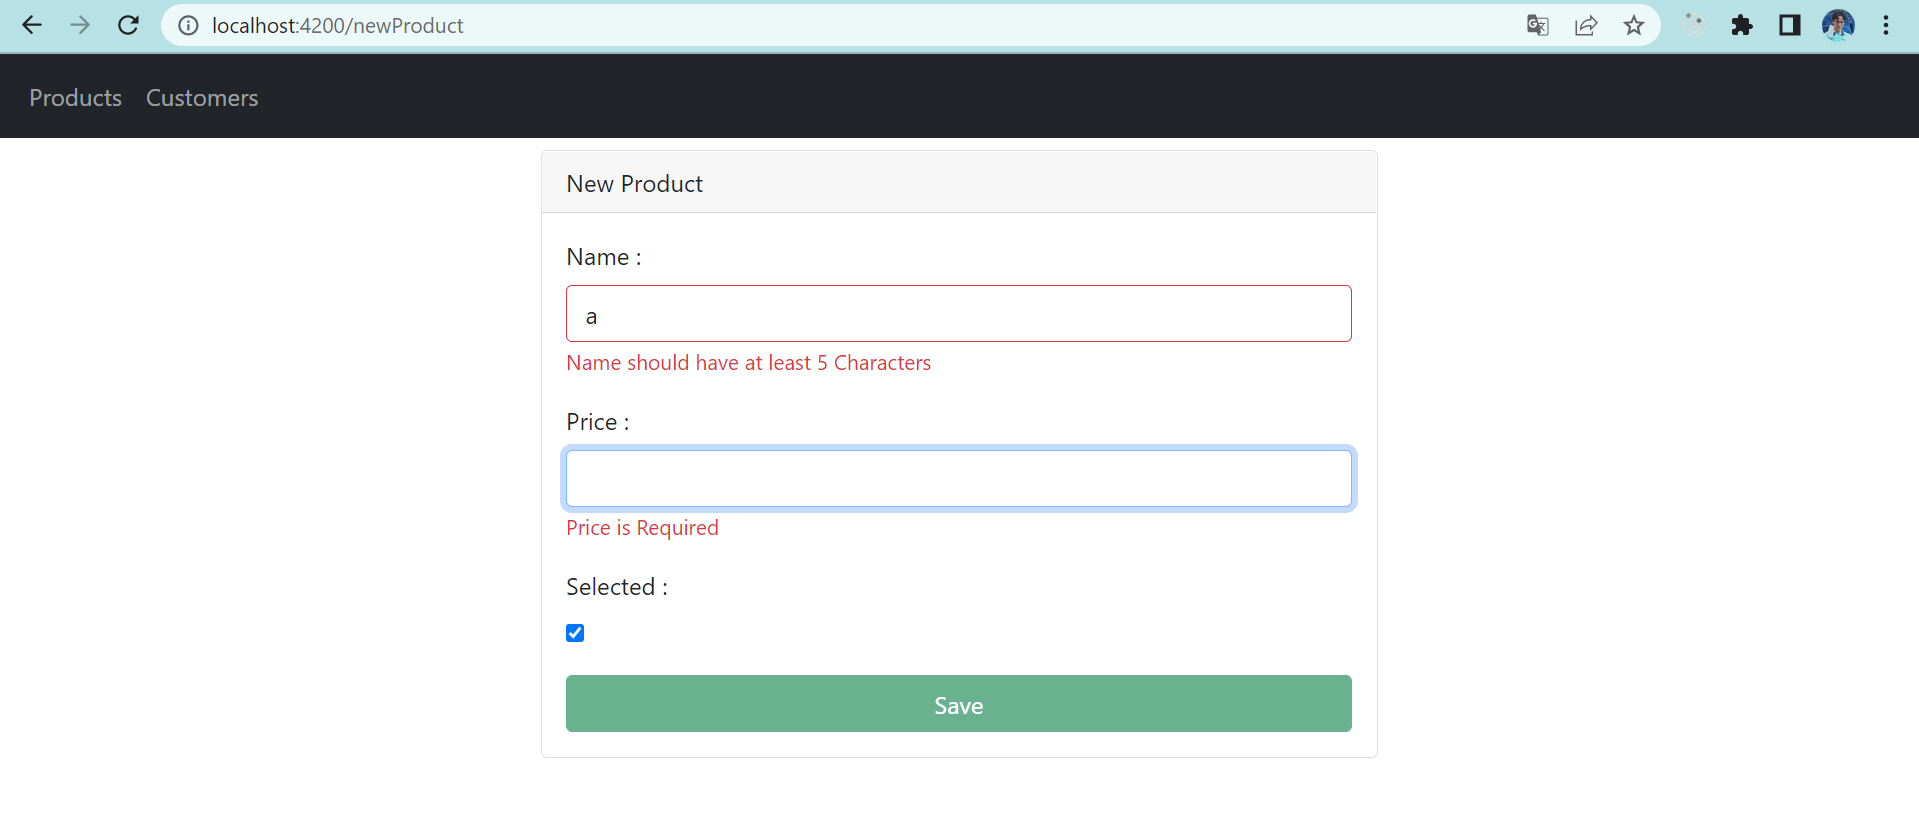
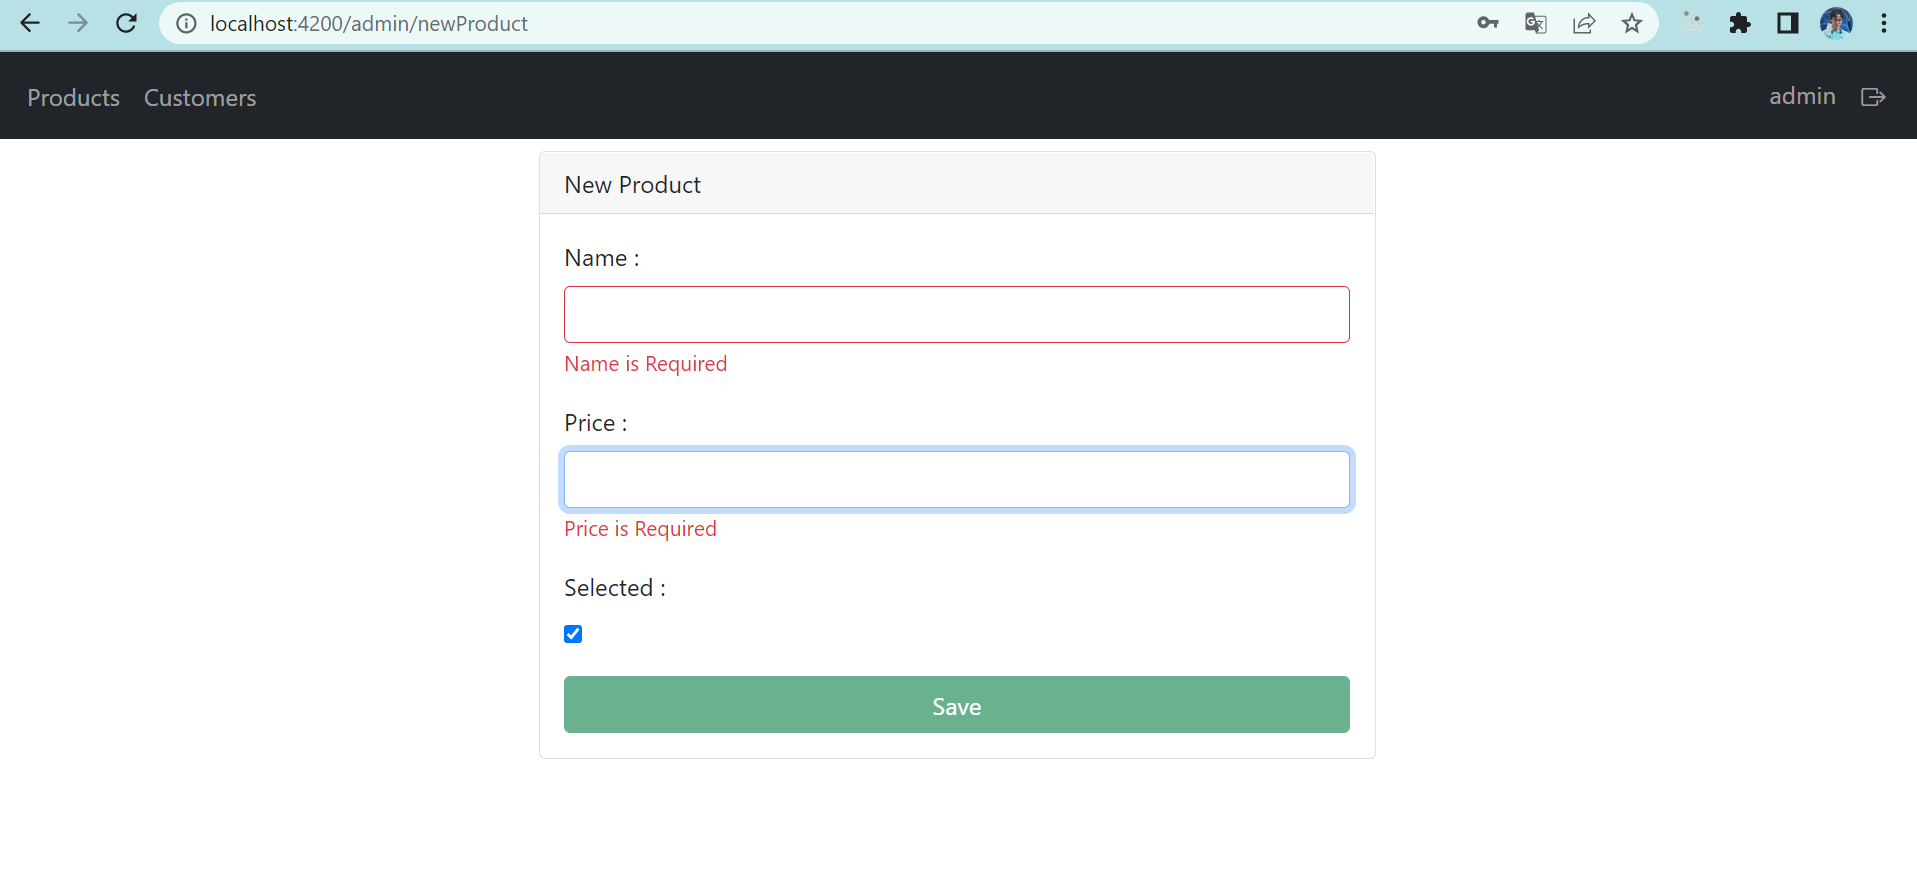
authentication

diff --git a/src/app/products/products.component.html b/src/app/products/products.component.html
@@ -8,7 +8,7 @@
       <i class="bi bi-save"></i>
       Promoted Products
     </button>
-    <button (click)="newProduct()" class="btn btn-outline-info ms-2">
+    <button *ngIf="this.authService.hasRole('ADMIN')" (click)="newProduct()" class="btn btn-outline-info ms-2">
       <i class="bi bi-save"></i>
       New Product
     </button>
@@ -25,7 +25,7 @@
       </div>
     </form>
     <table class="table">
-      <thead>
+      <thead *ngIf="this.authService.hasRole('ADMIN')">
         <tr>
           <td><i  (click)="setSelection(!selectMode)" class="btn" [ngClass]="selectMode==true?'bi bi-check-square':'bi-square'" ></i></td>
           <td>
@@ -48,24 +48,24 @@
       </thead>
       <tbody>
       <tr *ngFor="let p of products">
-        <td>
+        <td *ngIf="this.authService.hasRole('ADMIN')">
           <i (click)="select(p)" [ngClass]="p.selected==true?'bi bi-check-square':'bi-square'" class="btn"></i>
         </td>
         <td>{{p.id}}</td>
         <td>{{p.name}}</td>
         <td>{{p.price}}</td>
         <td><span *ngIf="p.promotion==true"  class="bi bi-check-circle text-success"></span></td>
-        <td>
+        <td *ngIf="this.authService.hasRole('ADMIN')">
           <button [ngClass]="p.promotion==true?'btn-outline-danger':'btn-outline-success'" (click)="handlePromoteProduct(p)" class="btn">
             <span>{{p.promotion==true?'Unselect':'Select'}}</span>
           </button>
         </td>
-        <td>
+        <td *ngIf="this.authService.hasRole('ADMIN')">
           <button (click)="handleDeleteProduct(p)" class="btn btn-danger">
             <i class="bi bi-trash"></i>
           </button>
         </td>
-        <td>
+        <td *ngIf="this.authService.hasRole('ADMIN')">
           <button (click)="handleEditProduct(p)" class="btn btn-success">
             <i class="bi bi-pencil-fill"></i>
           </button>

diff --git a/src/app/services/authentication.service.ts b/src/app/services/authentication.service.ts
@@ -1,0 +1,41 @@
+import { Injectable } from '@angular/core';
+import {AppUser} from "../model/user.model";
+import {UUID} from "angular2-uuid";
+import {Observable, of, throwError} from "rxjs";
+
+@Injectable({
+  providedIn: 'root'
+})
+export class AuthenticationService {
+  private users : AppUser[]=[];
+  public authenticatedUser : AppUser | undefined;
+  constructor() {
+    this.users.push({userId : UUID.UUID(),username:"user1",password :"1234","roles":['USER']});
+    this.users.push({userId : UUID.UUID(),username:"user2",password :"1234","roles":['USER']})
+    this.users.push({userId : UUID.UUID(),username:"admin",password :"admin","roles":['USER',"ADMIN"]});
+  }
+  public login(username:string, password :string):Observable<AppUser> {
+    let appUser = this.users.find(u=>u.username==username);
+    if(!appUser)
+      return throwError(()=>new Error('User Not found'));
+    if(appUser.password!=password)
+      return throwError(()=>new Error('Bad Credentials'));
+    return of(appUser);
+  }
+  public authenticateUser(user : AppUser):Observable<boolean>{
+    this.authenticatedUser=user;
+    localStorage.setItem("authUser", JSON.stringify({username:user.username, roles:user.roles, token : "JWT_TOKEN"}));
+    return of(true);
+  }
+  public hasRole(role : string) :boolean {
+    return this.authenticatedUser!.roles.includes(role);
+  }
+  public logout(){
+    this.authenticatedUser=undefined;
+    localStorage.removeItem("authUser");
+    return of(true);
+  }
+  public isAuthenticated():boolean{
+    return this.authenticatedUser!=undefined;
+  }
+}

diff --git a/src/app/products/products.component.ts b/src/app/products/products.component.ts
@@ -3,6 +3,7 @@ import {Product} from "../model/products.model";
 import {ProductService} from "../services/product.service";
 import {FormBuilder, FormGroup} from "@angular/forms";
 import {Router} from "@angular/router";
+import {AuthenticationService} from "../services/authentication.service";
 @Component({
   selector: 'app-products',
   templateUrl: './products.component.html',
@@ -19,13 +20,13 @@ export class ProductsComponent implements OnInit {
   pageSize : number =5;
   totalPages! : number;
   currentAction! :string;
-  constructor(private productsService : ProductService, private fb:FormBuilder, private router: Router) {
+  constructor(private productsService : ProductService,
+              private fb:FormBuilder, private router: Router, public authService : AuthenticationService) {
   }
   ngOnInit(): void {
     this.searchProductFormGroup=this.fb.group({
       keyword : this.fb.control("")
     });
-    console.log("Products component => ngOnInit");
     this.handleGetAllProducts();
   }
   handleDeleteProduct(p: Product) {
@@ -57,7 +58,7 @@ export class ProductsComponent implements OnInit {
   }
 
   newProduct() {
-    this.router.navigateByUrl("/newProduct")
+    this.router.navigateByUrl("/admin/newProduct")
   }
 
   handlePromoteProduct(product: Product) {
@@ -162,6 +163,6 @@ export class ProductsComponent implements OnInit {
   }
 
   handleEditProduct(p: Product) {
-    this.router.navigateByUrl("/editProduct/"+p.id);
+    this.router.navigateByUrl("/admin/editProduct/"+p.id);
   }
 }

diff --git a/src/app/app-routing.module.ts b/src/app/app-routing.module.ts
@@ -4,12 +4,21 @@ import {ProductsComponent} from "./products/products.component";
 import {CustomersComponent} from "./customers/customers.component";
 import {NewProductComponent} from "./new-product/new-product.component";
 import {ProductEditComponent} from "./product-edit/product-edit.component";
+import {LoginComponent} from "./login/login.component";
+import {NavbarComponent} from "./navbar/navbar.component";
+import {AdminTemplateComponent} from "./admin-template/admin-template.component";
+import {AuthorizationGuard} from "./guards/authorization.guard";
 
 const routes: Routes = [
-  {path : "products", component : ProductsComponent},
-  {path : "customers" , component : CustomersComponent},
-  {path : "newProduct" , component : NewProductComponent},
-  {path : "editProduct/:id" , component : ProductEditComponent}
+  {path : "login", component : LoginComponent},
+  {path : "", redirectTo:"login", pathMatch:"full"},
+  {path : "admin", component : AdminTemplateComponent, canActivate : [AuthorizationGuard], children : [
+      {path : "products", component : ProductsComponent},
+      {path : "customers" , component : CustomersComponent},
+      {path : "newProduct" , component : NewProductComponent},
+      {path : "editProduct/:id" , component : ProductEditComponent}
+    ]
+  },
 ];
 
 @NgModule({

diff --git a/src/app/login/login.component.ts b/src/app/login/login.component.ts
@@ -1,0 +1,36 @@
+import { Component, OnInit } from '@angular/core';
+import {FormBuilder, FormGroup} from "@angular/forms";
+import {AuthenticationService} from "../services/authentication.service";
+import {Route, Router} from "@angular/router";
+
+@Component({
+  selector: 'app-login',
+  templateUrl: './login.component.html',
+  styleUrls: ['./login.component.css']
+})
+export class LoginComponent implements OnInit {
+
+  userFormGroup! : FormGroup;
+  constructor(private fb : FormBuilder, private authService : AuthenticationService, private router : Router) { }
+
+  ngOnInit(): void {
+    this.userFormGroup=this.fb.group({
+      username : this.fb.control(null),
+      password : this.fb.control(null)
+    });
+  }
+
+  handleLogin() {
+    let username=this.userFormGroup.value.username;
+    let password=this.userFormGroup.value.password;
+    this.authService.login(username,password).subscribe({
+      next : (data)=>{
+        this.authService.authenticateUser(data).subscribe({
+          next : (data)=>{
+            this.router.navigateByUrl("/admin");
+          }
+        })
+      }
+    })
+  }
+}

diff --git a/src/app/app.module.ts b/src/app/app.module.ts
@@ -8,6 +8,9 @@ import { CustomersComponent } from './customers/customers.component';
 import { NewProductComponent } from './new-product/new-product.component';
 import {FormsModule, ReactiveFormsModule} from "@angular/forms";
 import { ProductEditComponent } from './product-edit/product-edit.component';
+import { LoginComponent } from './login/login.component';
+import { NavbarComponent } from './navbar/navbar.component';
+import { AdminTemplateComponent } from './admin-template/admin-template.component';
 
 @NgModule({
   declarations: [
@@ -15,7 +18,10 @@ import { ProductEditComponent } from './product-edit/product-edit.component';
     ProductsComponent,
     CustomersComponent,
     NewProductComponent,
-    ProductEditComponent
+    ProductEditComponent,
+    LoginComponent,
+    NavbarComponent,
+    AdminTemplateComponent
   ],
   imports: [
     BrowserModule,

diff --git a/src/app/guards/authorization.guard.ts b/src/app/guards/authorization.guard.ts
@@ -1,0 +1,23 @@
+import { Injectable } from '@angular/core';
+import {ActivatedRouteSnapshot, CanActivate, Router, RouterStateSnapshot, UrlTree} from '@angular/router';
+import { Observable } from 'rxjs';
+import {AuthenticationService} from "../services/authentication.service";
+
+@Injectable({
+  providedIn: 'root'
+})
+export class AuthorizationGuard implements CanActivate {
+  constructor(private authService:AuthenticationService, private router : Router) {
+  }
+  canActivate(
+    route: ActivatedRouteSnapshot,
+    state: RouterStateSnapshot): Observable<boolean | UrlTree> | Promise<boolean | UrlTree> | boolean | UrlTree {
+    if(this.authService.isAuthenticated()){
+      return true;
+    } else {
+      this.router.navigateByUrl("/login");
+      return false;
+    }
+  }
+
+}

diff --git a/src/app/login/login.component.html b/src/app/login/login.component.html
@@ -1,0 +1,21 @@
+<div class="container mt-3" *ngIf="userFormGroup">
+  <div class="card col-md-6 offset-md-3">
+    <div class="card-header text-center"><h3>Authentication</h3></div>
+    <div class="card-body">
+      <form [formGroup]="userFormGroup" (ngSubmit)="handleLogin()">
+        <div class="mb-3">
+          <label class="form-label">Username:</label>
+          <input type="text" formControlName="username" class="form-control">
+        </div>
+        <div class="mb-3">
+          <label class="form-label">Password:</label>
+          <input type="password" formControlName="password" class="form-control">
+        </div>
+        <div class="d-grid">
+          <button class="btn btn-info">Login</button>
+        </div>
+      </form>
+    </div>
+  </div>
+
+</div>

diff --git a/src/app/admin-template/admin-template.component.spec.ts b/src/app/admin-template/admin-template.component.spec.ts
@@ -1,0 +1,25 @@
+import { ComponentFixture, TestBed } from '@angular/core/testing';
+
+import { AdminTemplateComponent } from './admin-template.component';
+
+describe('AdminTemplateComponent', () => {
+  let component: AdminTemplateComponent;
+  let fixture: ComponentFixture<AdminTemplateComponent>;
+
+  beforeEach(async () => {
+    await TestBed.configureTestingModule({
+      declarations: [ AdminTemplateComponent ]
+    })
+    .compileComponents();
+  });
+
+  beforeEach(() => {
+    fixture = TestBed.createComponent(AdminTemplateComponent);
+    component = fixture.componentInstance;
+    fixture.detectChanges();
+  });
+
+  it('should create', () => {
+    expect(component).toBeTruthy();
+  });
+});

diff --git a/src/app/navbar/navbar.component.html b/src/app/navbar/navbar.component.html
@@ -1,0 +1,22 @@
+<div class="navbar navbar-expand navbar-dark bg-dark">
+  <div class="container-fluid">
+    <ul class="navbar-nav">
+      <li class="nav-item">
+        <a routerLink="/admin/products" class="nav-link">Products</a>
+      </li>
+      <li class="nav-item">
+        <a routerLink="/admin/customers" class="nav-link">Customers</a>
+      </li>
+    </ul>
+    <ul class="navbar-nav">
+      <li>
+        <a class="nav-link">{{authService.authenticatedUser!.username}}</a>
+      </li>
+      <li>
+        <a class="btn nav-link" (click)="handleLogout()">
+          <i class="bi bi-box-arrow-right"></i>
+        </a>
+      </li>
+    </ul>
+  </div>
+</div>

diff --git a/src/app/navbar/navbar.component.spec.ts b/src/app/navbar/navbar.component.spec.ts
@@ -1,0 +1,25 @@
+import { ComponentFixture, TestBed } from '@angular/core/testing';
+
+import { NavbarComponent } from './navbar.component';
+
+describe('NavbarComponent', () => {
+  let component: NavbarComponent;
+  let fixture: ComponentFixture<NavbarComponent>;
+
+  beforeEach(async () => {
+    await TestBed.configureTestingModule({
+      declarations: [ NavbarComponent ]
+    })
+    .compileComponents();
+  });
+
+  beforeEach(() => {
+    fixture = TestBed.createComponent(NavbarComponent);
+    component = fixture.componentInstance;
+    fixture.detectChanges();
+  });
+
+  it('should create', () => {
+    expect(component).toBeTruthy();
+  });
+});

diff --git a/src/app/login/login.component.spec.ts b/src/app/login/login.component.spec.ts
@@ -1,0 +1,25 @@
+import { ComponentFixture, TestBed } from '@angular/core/testing';
+
+import { LoginComponent } from './login.component';
+
+describe('LoginComponent', () => {
+  let component: LoginComponent;
+  let fixture: ComponentFixture<LoginComponent>;
+
+  beforeEach(async () => {
+    await TestBed.configureTestingModule({
+      declarations: [ LoginComponent ]
+    })
+    .compileComponents();
+  });
+
+  beforeEach(() => {
+    fixture = TestBed.createComponent(LoginComponent);
+    component = fixture.componentInstance;
+    fixture.detectChanges();
+  });
+
+  it('should create', () => {
+    expect(component).toBeTruthy();
+  });
+});
